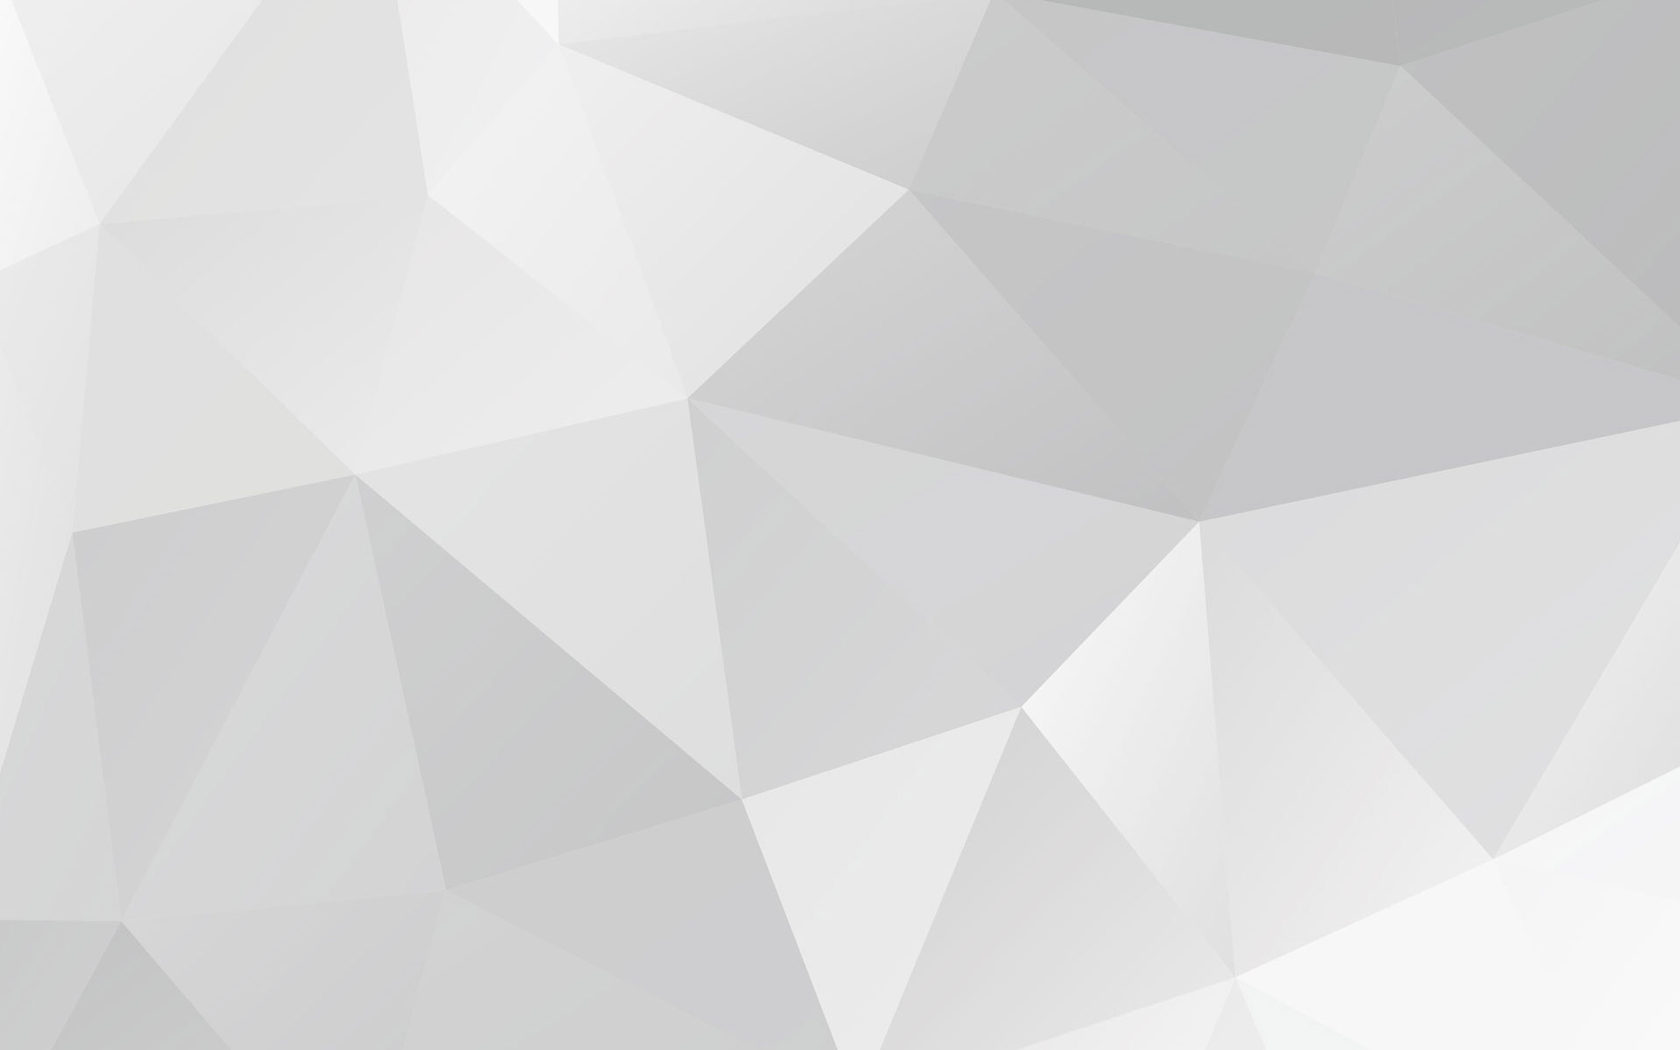
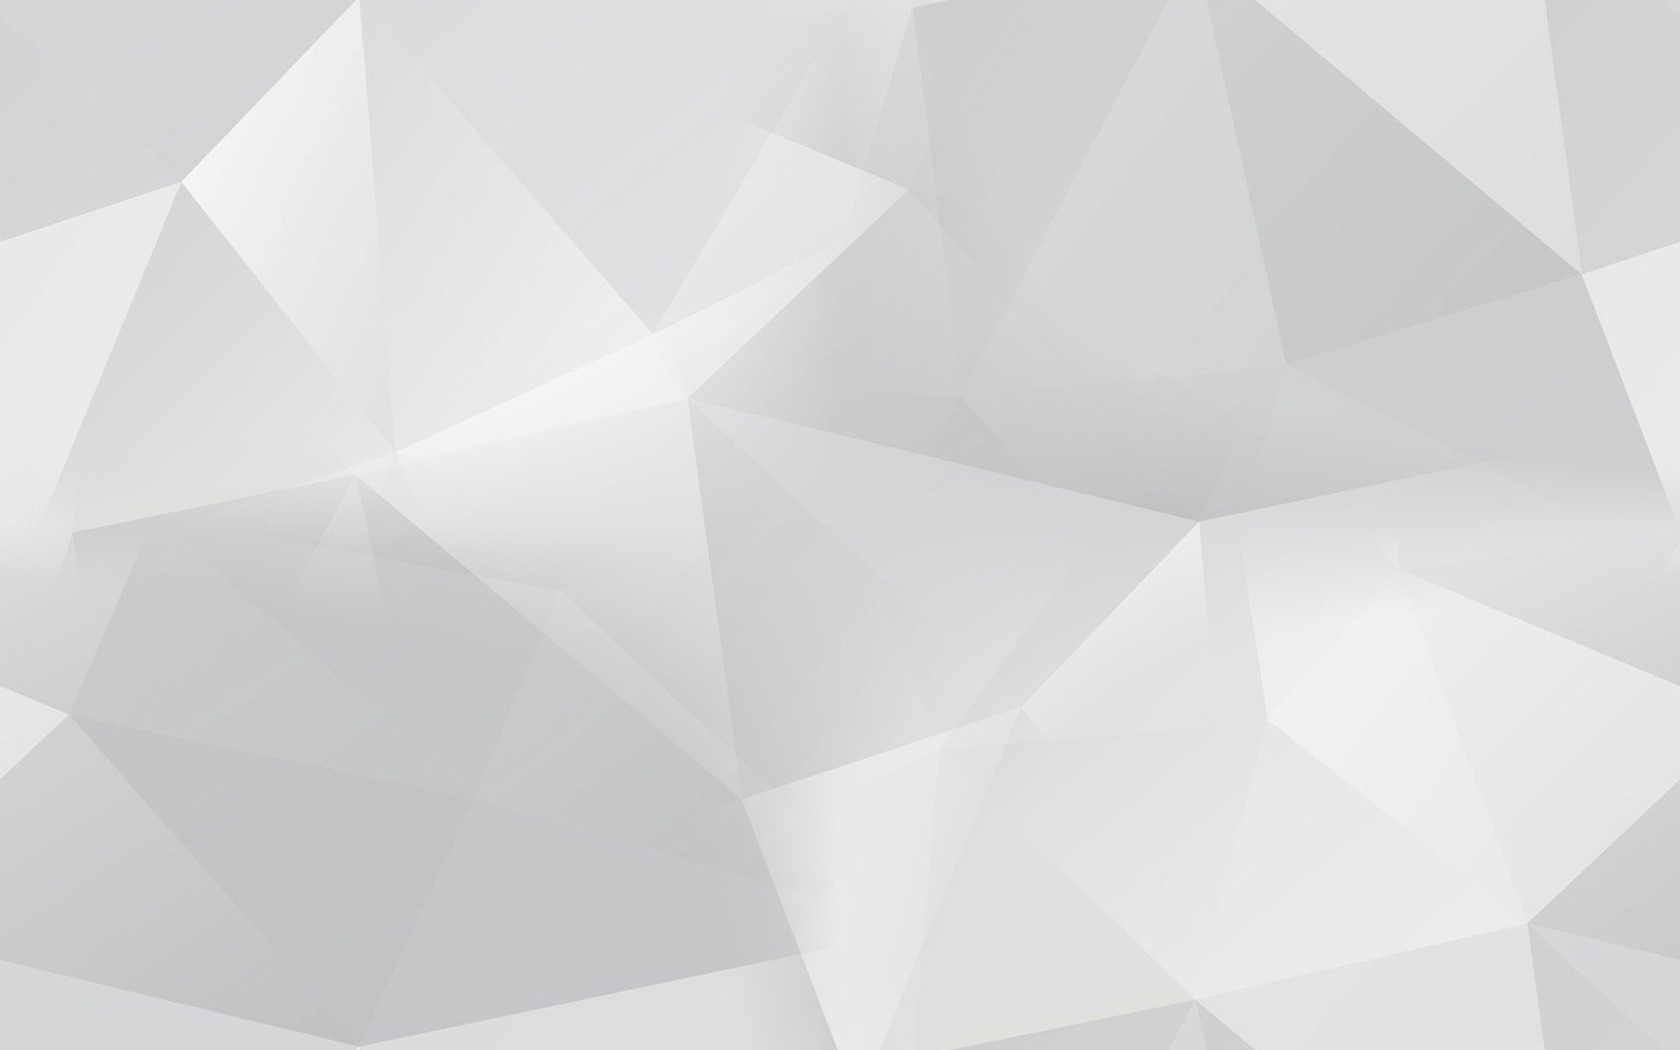
Добавил новые роуты для кнопок (популярное, новое), добавил неактивные кнопки с подсказками, изменил фон на повторяющийся

diff --git a/src/app/components/info-book/info-book.component.html b/src/app/components/info-book/info-book.component.html
@@ -36,7 +36,7 @@
         <ng-template #hasSubscription>
           <button class="btn" style="background: #1b5f5f">
             <!--TODO(Kuptsov) MAJOR: Кнопка не нажимается, пока ничего не нажмёшь (просто лкм по тексту считается) на странице -->
-            <a style="text-decoration: none; color: white" href="https://potter-1.bib.bz/">Читать (подписка)</a></button>
+            <a style="text-decoration: none; color: white" href="https://potter-1.bib.bz/">Читать по подписке</a></button>
           <ngx-audio-player [playlist]="msaapPlaylist" [displayTitle]="msaapDisplayTitle" [autoPlay]="false"
                             muted="muted" [displayPlaylist]="msaapDisplayPlayList" [pageSizeOptions]="msaapPageSizeOptions"
                             [displayVolumeControls]="msaapDisplayVolumeControls" [disablePositionSlider]="msaapDisablePositionSlider"
@@ -50,14 +50,18 @@
           <button class="btn btn-dark" type="submit"
                   onclick="location.href='https://avidreaders.ru/api/get.php?b=13640&f=pdf'">Скачать
           </button>
+          <button matTooltip="У вас уже куплена книга, вы можете её скачать по кнопке выше" style="background: gray " class="btn" type="disabled">Купить</button>
         </ng-template>
         <ng-template #didntbought>
           <div *ngIf="userDTO | async as userdto1">
-            <div *ngIf="userdto1.hasFreeBook; then hasFreeBook"></div>
+            <div *ngIf="userdto1.hasFreeBook; then hasFreeBook; else noFreeBook;"></div>
             <ng-template #hasFreeBook>
               <form (ngSubmit)="onSubmitButtonBuyBySubscription()">
-                <button class="btn" style="background: #1b5f5f;" type="submit">Бесплатно (подписка)</button>
+                <button class="btn" style="background: indigo;" type="submit">Купить по подписке</button>
               </form>
+            </ng-template>
+            <ng-template #noFreeBook>
+              <button matTooltip="У вас закончилась подписка, приобретите новую для получения бесплатных книг" class="btn" style="background: gray;" type="disabled">Купить по подписке</button>
             </ng-template>
             <form style="width: 100%; display: flex; justify-items: center; justify-content: center;" (ngSubmit)="onSubmitButtonBuy()">
               <button style="background: indigo " class="btn" type="submit">Купить</button>

diff --git a/src/app/components/books/books.component.ts b/src/app/components/books/books.component.ts
@@ -1,10 +1,10 @@
-import {Component, Input, OnInit, SimpleChanges} from '@angular/core';
+import { Component, Input, OnInit, SimpleChanges } from '@angular/core';
 import { BooksService } from '../../services/books.service';
 import { Book } from '../../model/Book';
 import { Genre } from '../../model/Genre';
 import { Author } from '../../model/Author';
-import {TransferService} from '../../services/transfer.service';
-import {ActivatedRoute} from '@angular/router';
+import { TransferService } from '../../services/transfer.service';
+import { ActivatedRoute } from '@angular/router';
 
 @Component({
   selector: 'app-books',
@@ -12,6 +12,7 @@ import {ActivatedRoute} from '@angular/router';
   styleUrls: ['./books.component.css'],
 })
 export class BooksComponent implements OnInit {
+  queryType: string;
   books: Book[];
   genres: Genre[];
   authors: Author[];
@@ -19,7 +20,8 @@ export class BooksComponent implements OnInit {
 
 
   constructor(private booksService: BooksService, private transferService: TransferService,
-              private route: ActivatedRoute) {
+    private route: ActivatedRoute) {
+    this.queryType = this.route.snapshot.params.type;
   }
 
 
@@ -32,6 +34,10 @@ export class BooksComponent implements OnInit {
     if (this.searchField != null) {
       console.log(this.searchField);
       this.getAllBookByBookName(this.searchField);
+    } else if (this.queryType === 'popular') {
+      this.booksService.getPopularBooksList().subscribe((next) => (this.books = next));
+    } else if (this.queryType === 'new') {
+      this.booksService.getNewBooksList().subscribe((next) => (this.books = next));
     } else {
       this.booksService.getBooksList().subscribe((next) => (this.books = next));
     }

diff --git a/src/app/services/books.service.ts b/src/app/services/books.service.ts
@@ -9,8 +9,9 @@ import { Author } from '../model/Author';
 
 const API_ROOT = `${environment.apiDataService}/api/service/search`;
 const GET_BOOKS_ROUTE = `${API_ROOT}/find-all`;
-const GET_BOOKS_BY_GENRE_ROUTE = `${API_ROOT}/find-all-by-genre/`;
-const GET_BOOKS_BY_BOOK_NAME_ROUTE = `${API_ROOT}/find-all-by-book-name/`;
+const GET_BOOKS_BY_GENRE_ROUTE = `${API_ROOT}/find-all-by-genre`;
+const GET_BOOKS_BY_BOOK_NAME_ROUTE = `${API_ROOT}/find-all-by-book-name`;
+const GET_NEW_BOOKS_ROUTE = `${API_ROOT}/find-all-new`;
 const GET_GENRES_ROUTE = `${API_ROOT}/find-all-genres`;
 const GET_AUTHORS_ROUTE = `${API_ROOT}/find-all-authors`;
 const GET_BOOK_BY_ID = API_ROOT;
@@ -33,14 +34,14 @@ export class BooksService {
   getBooksListByGenre(genreName: string): Observable<Book[]> {
     console.log("getBooksListByGenre");
     return this.http.
-      get(GET_BOOKS_BY_GENRE_ROUTE + genreName)
+      get(`${GET_BOOKS_BY_GENRE_ROUTE}/${genreName}`)
       .pipe(tap((data: Book[]) => data));
   }
 
   getBooksListByBookNameOrAuthorName(bookName: string): Observable<Book[]> {
     console.log("getBooksListByBookNameOrAuthorName");
     return this.http.
-      get(GET_BOOKS_BY_BOOK_NAME_ROUTE + bookName)
+      get(`${GET_BOOKS_BY_BOOK_NAME_ROUTE}/${bookName}`)
       .pipe(tap((data: Book[]) => data));
   }
 
@@ -48,6 +49,13 @@ export class BooksService {
     console.log("getPopularBooksList");
     return this.http
       .get(GET_POPULAR_BOOKS_ROUTE)
+      .pipe(tap((data: Book[]) => data));
+  }
+
+  getNewBooksList(): Observable<Book[]> {
+    console.log("getNewBooksList");
+    return this.http
+      .get(GET_NEW_BOOKS_ROUTE)
       .pipe(tap((data: Book[]) => data));
   }
 

diff --git a/src/app/app.component.html b/src/app/app.component.html
@@ -9,16 +9,16 @@
       <div class="dropdown-menu">
         <a class="dropdown-item" routerLink="">Главная</a>
         <a class="dropdown-item" routerLink="/books">Книги</a>
-        <a class="dropdown-item" routerLink="/books">Популярное</a>
-        <a class="dropdown-item" routerLink="/books">Новинки</a>
+        <a class="dropdown-item" routerLink="/books/popular">Популярное</a>
+        <a class="dropdown-item" routerLink="/books/new">Новинки</a>
       </div>
     </div>
   </div>
   <ul class="desktopMenu">
-    <li><a href=""> <span style="font-weight: bold"> Главная </span></a></li>
+    <li><a routerLink="" routerLinkActive="active"> <span style="font-weight: bold"> Главная </span></a></li>
     <li><a routerLink="/books" routerLinkActive="active"> Книги </a></li>
-    <li><a href=""> Популярное</a></li>
-    <li><a href=""> Новинки</a></li>
+    <li><a routerLink="/books/popular" routerLinkActive="active"> Популярное</a></li>
+    <li><a routerLink="/books/new" routerLinkActive="active"> Новинки</a></li>
   </ul>
   <form (ngSubmit)="getSearchFieldAndSendInTransfer()" class="d-flex searchForm" >
 

diff --git a/src/app/app.module.ts b/src/app/app.module.ts
@@ -17,6 +17,7 @@ import { SubscriptionsComponent } from './components/subscriptions/subscriptions
 import { BuyFormComponent } from './components/buy-form/buy-form.component';
 import { NgxAudioPlayerModule } from 'ngx-audio-player';
 import { BrowserAnimationsModule } from '@angular/platform-browser/animations';
+import { MatTooltipModule } from '@angular/material/tooltip';
 
 @NgModule({
   declarations: [
@@ -39,6 +40,7 @@ import { BrowserAnimationsModule } from '@angular/platform-browser/animations';
     FormsModule,
     NgxAudioPlayerModule,
     BrowserAnimationsModule,
+    MatTooltipModule,
   ],
   providers: [
     {

diff --git a/src/app/app-routing.module.ts b/src/app/app-routing.module.ts
@@ -10,6 +10,7 @@ import { BuyFormComponent } from './components/buy-form/buy-form.component';
 
 const routes: Routes = [
   { path: 'books', component: BooksComponent },
+  { path: 'books/:type', component: BooksComponent },
   { path: '', component: MainComponent },
   { path: 'info-book/:id', component: InfoBookComponent },
   { path: 'registration', component: RegistrationComponent },

diff --git a/src/styles.css b/src/styles.css
@@ -8,7 +8,7 @@ html, body {
 
 body {
   background-image: url(./assets/images/background.jpg);
-  background-repeat: no-repeat;
+  background-repeat: repeat;
   background-position: center;
   background-size: cover;
 }
